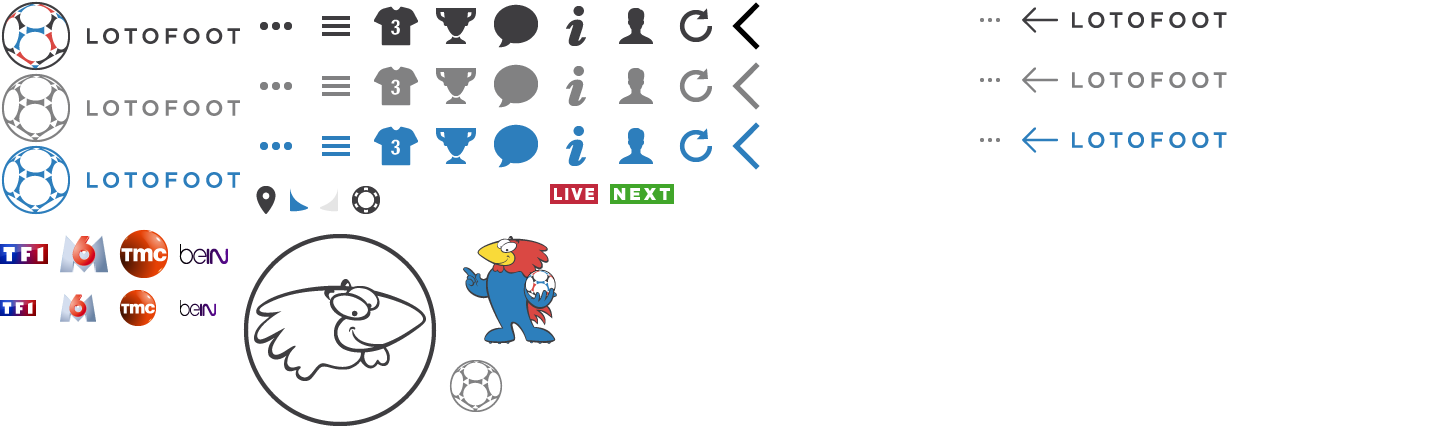
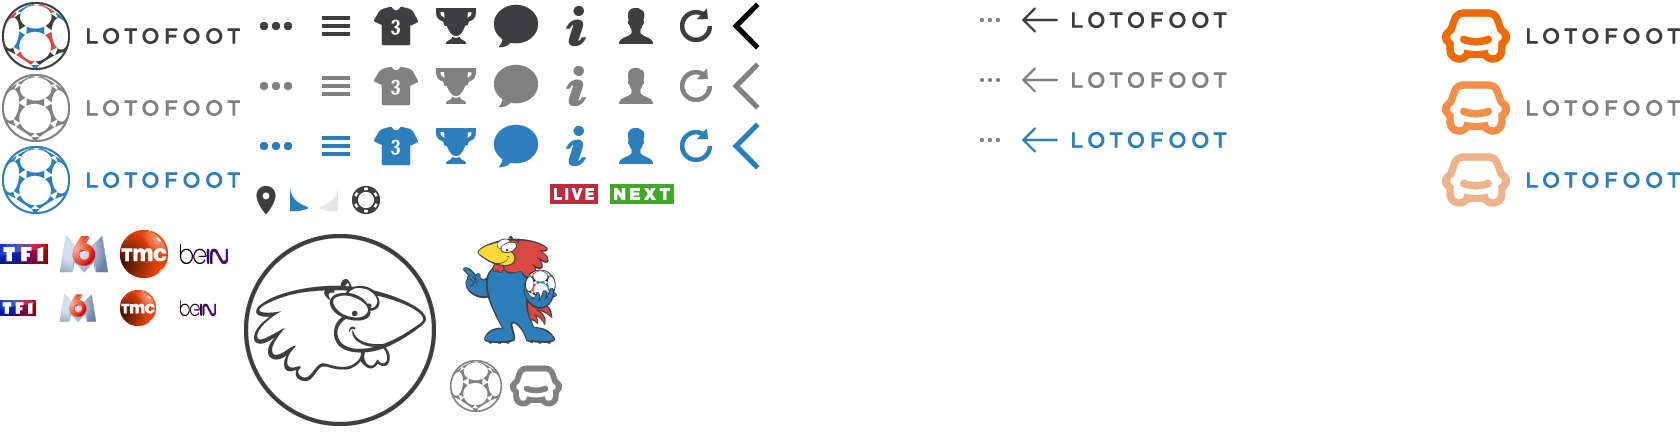
lecab imgs

diff --git a/src/pages/UserRegisterPage.js b/src/pages/UserRegisterPage.js
@@ -4,6 +4,7 @@ import { NavLink } from "fluxible-router";
 import { postApi } from "../actions/Pages/ApiAction";
 import { registerUser } from "../actions/Pages/UserRegisterAction";
 import Labels from "../Labels";
+import config from "../config";
 
 if (process.env.BROWSER) {
   require("../style/Pages/UserRegisterPage.scss");
@@ -66,7 +67,7 @@ class UserRegisterPage extends Component {
         <div className="UserRegisterPageContainer">
           <div className="UserRegisterPageContent">
             <form onSubmit={this.registerUser.bind(this)}>
-              <div className="LoginLogo"></div>
+              <div className={'LoginLogo ' + config.appName}></div>
               <div className="Input">
                 <div className="Label">Email</div>
                 <input type="email" value={username} onChange={this.usernameChanged.bind(this)} ref="usernameInput" required

diff --git a/src/pages/LoginPage.js b/src/pages/LoginPage.js
@@ -3,6 +3,7 @@ import { connectToStores } from "fluxible-addons-react";
 import { NavLink } from "fluxible-router";
 import { loginUser } from "../actions/Pages/LoginAction";
 import Labels from "../Labels";
+import config from "../config";
 
 if (process.env.BROWSER) {
   require("../style/Pages/LoginPage.scss");
@@ -33,7 +34,7 @@ class LoginPage extends Component {
         <div className="LoginPageContainer">
           <div className="LoginPageContent">
             <form onSubmit={this.login.bind(this)}>
-              <div className="LoginLogo"></div>
+              <div className={'LoginLogo ' + config.appName}></div>
               <div>
                 <input type="email" ref="loginInput" placeholder={Labels.username} required
                   autoComplete="on" spellCheck="false" autoCorrect="off" autoCapitalize="off" />

diff --git a/src/style/App/Icons.scss b/src/style/App/Icons.scss
@@ -2,7 +2,7 @@
 
 @mixin uiux-icons{
   background: url('../../assets/uiux_icons.png') 0 0 no-repeat;
-  background-size: 720px 220px;
+  background-size: 840px 220px;
 }
 
 @mixin uiux-flags{
@@ -64,6 +64,7 @@
   &.main{
     background-position: -225px -180px;
 
+    &.lotofoot-lecab{background-position: -255px -180px;}
     &.lotofoot-dev, &.lotofoot-pre{
       position: relative;
       &:before {
@@ -83,6 +84,7 @@
   &.main{
     background-position: -0px -0px;
 
+    &.lotofoot-lecab{background-position: -720px -0px;}
     &.lotofoot-dev, &.lotofoot-pre{
       position: relative;
       &:before {
@@ -94,7 +96,7 @@
     }
   }
 
-  &.main.full{background-position: -0px -0px; width: 120px;}
+  &.full{width: 120px;}
 
   &:hover{background-position-y:-36px;}
   &:active{background-position-y:-72px;}

diff --git a/src/components/App/Nav.js b/src/components/App/Nav.js
@@ -6,6 +6,7 @@ import Sections from "../../constants/Sections";
 import ReactCSSTransitionGroup from "react-addons-css-transition-group";
 import NavHelper from '../Helpers/NavHelper';
 import Labels from "../../Labels";
+import config from "../../config";
 
 if (process.env.BROWSER) {
   require("../../style/App/Nav.scss");
@@ -49,7 +50,7 @@ class Nav extends Component {
           {hasNav &&
             <nav className="NavFull">
               <div className="MainLink" onTouchTap={NavHelper.navToSectClick.bind(this, 'games')}>
-                <div className="icn-36 main full"></div>
+                <div className={'icn-36 main full ' + config.appName}></div>
               </div>
 
               {Sections.map(sect =>

diff --git a/src/style/Pages/UserRegisterPage.scss b/src/style/Pages/UserRegisterPage.scss
@@ -27,10 +27,14 @@
         text-align: center;
 
         .LoginLogo{
-          background: url("../../assets/uiux_icon_home.png") 50% 50% no-repeat;
+          background-image: url("../../assets/uiux_icon_home.png");
+          background-position: 50% 50%;
+          background-repeat: no-repeat;
           background-size: 328px 70px;
           margin: 0 auto 12px auto;
           width: 328px; height: 70px;
+
+          &.lotofoot-lecab{background-image: url("../../assets/uiux_icon_home-lecab.png");}
         }
 
         .Input{

diff --git a/src/style/Pages/LoginPage.scss b/src/style/Pages/LoginPage.scss
@@ -27,10 +27,14 @@
         text-align: center;
 
         .LoginLogo{
-          background: url("../../assets/uiux_icon_home.png") 50% 50% no-repeat;
+          background-image: url("../../assets/uiux_icon_home.png");
+          background-position: 50% 50%;
+          background-repeat: no-repeat;
           background-size: 328px 70px;
           margin: 0 auto 12px auto;
           width: 328px; height: 70px;
+
+          &.lotofoot-lecab{background-image: url("../../assets/uiux_icon_home-lecab.png");}
         }
 
         input{

diff --git a/src/components/Dialog/AccountDialog.js b/src/components/Dialog/AccountDialog.js
@@ -21,7 +21,7 @@ class AccountDialog extends Component {
 
   render() {
     const { credentials } = this.props;
-    const hasPaidString = credentials.hasPaid ? Labels.hasPaid : Labels.hasNotPaid;
+    const hasPaidString = undefined;// = credentials.hasPaid ? Labels.hasPaid : Labels.hasNotPaid;
     return (
       <div className="AccountDialog">
         <div className="AccountDialogArrow-1"></div>
